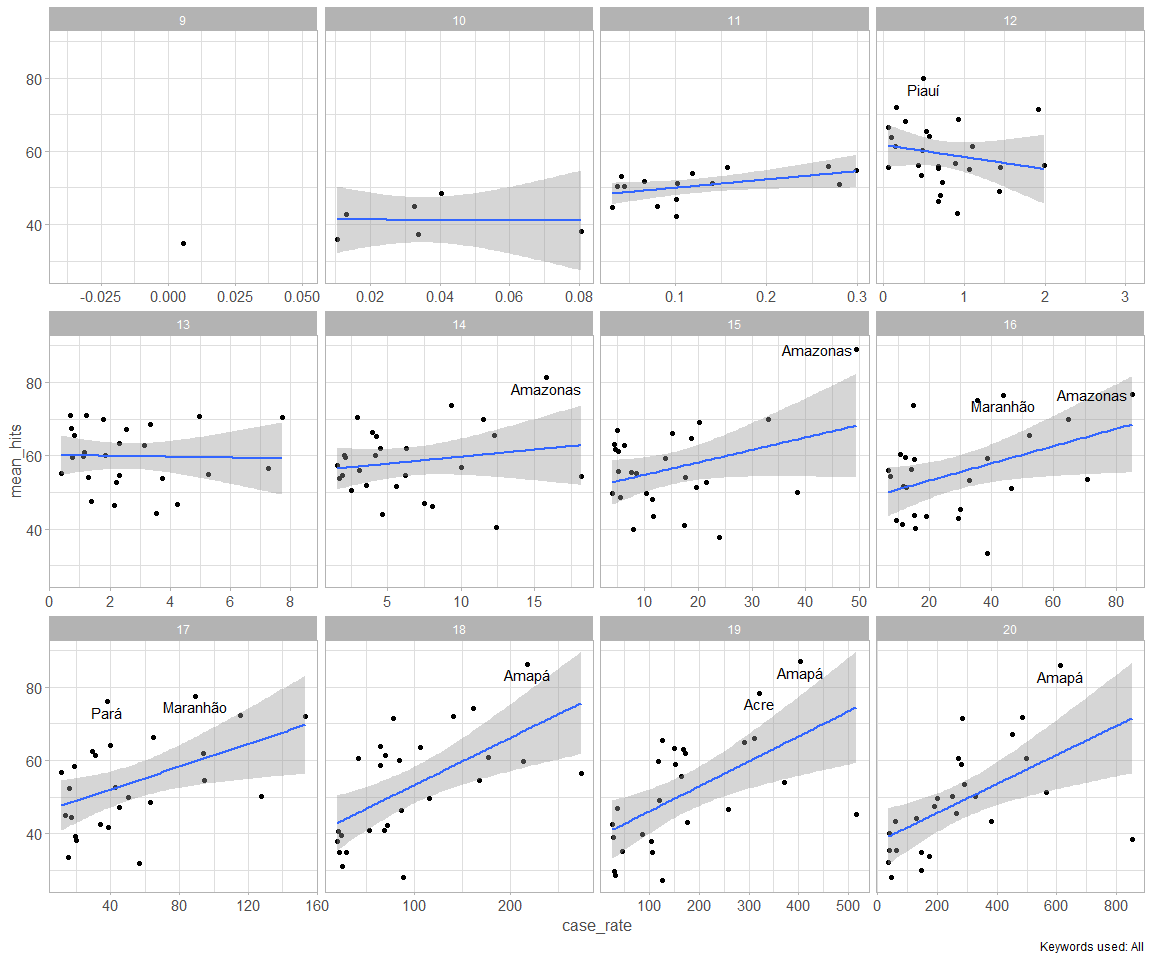
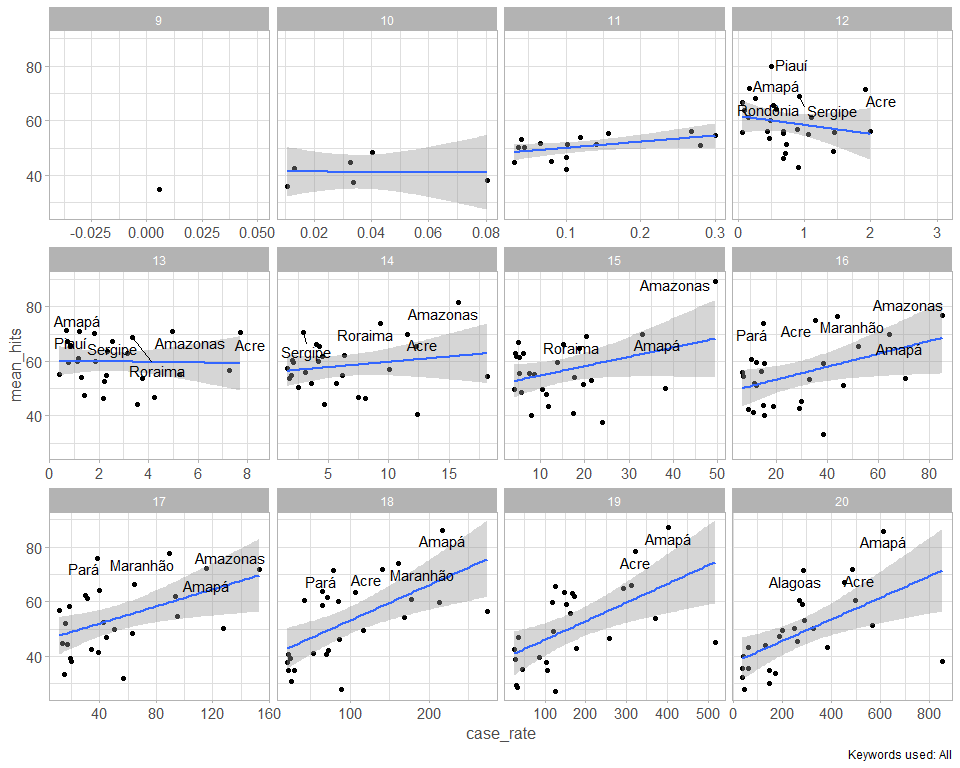
update

diff --git a/DataWork/google_trends/09_Crossstate_Bidaily_Analysis.md b/DataWork/google_trends/09_Crossstate_Bidaily_Analysis.md
@@ -282,7 +282,7 @@ df_match %>%
 ![](09_Crossstate_Bidaily_Analysis_files/figure-html/unnamed-chunk-12-1.png)<!-- -->
 
 
-Showing the states where there any keywords appeared earlier in time
+Showing the states where  any keywords appeared earlier in time
 
 ```r
 df_match %>% 
@@ -392,7 +392,7 @@ df_match %>%
   geom_point(aes(case_rate, mean_hits)) + 
   geom_smooth(aes(case_rate, mean_hits), method = "lm") + 
   geom_text_repel(
-    data = . %>% filter(mean_hits > 75), 
+    data = . %>% filter(mean_hits > 68), 
     aes(case_rate, mean_hits, label = state), 
     hjust=0.5, vjust=0.4
   ) + 
@@ -404,7 +404,7 @@ df_match %>%
 
 ![](09_Crossstate_Bidaily_Analysis_files/figure-html/unnamed-chunk-17-1.png)<!-- -->
 
-## Using 1st person symptoms
+## Using all keywords, highlighting more names to find the outliers and leaving the scales free
 
 ```r
 df_match %>% 
@@ -418,11 +418,11 @@ df_match %>%
   geom_point(aes(case_rate, mean_hits)) + 
   geom_smooth(aes(case_rate, mean_hits), method = "lm") + 
   geom_text_repel(
-    data = . %>% filter(mean_hits > 75), 
+    data = . %>% filter(mean_hits > 68), 
     aes(case_rate, mean_hits, label = state), 
     hjust=0.5, vjust=0.4
   ) + 
-  facet_wrap(vars(week_number), scales = "free_x") +
+  facet_wrap(vars(week_number), scales = "free") +
   labs(
     caption = "Keywords used: All"
   ) +
@@ -430,6 +430,7 @@ df_match %>%
 ```
 
 ![](09_Crossstate_Bidaily_Analysis_files/figure-html/unnamed-chunk-18-1.png)<!-- -->
+
 ## 3 words, 3 weeks
 
 
